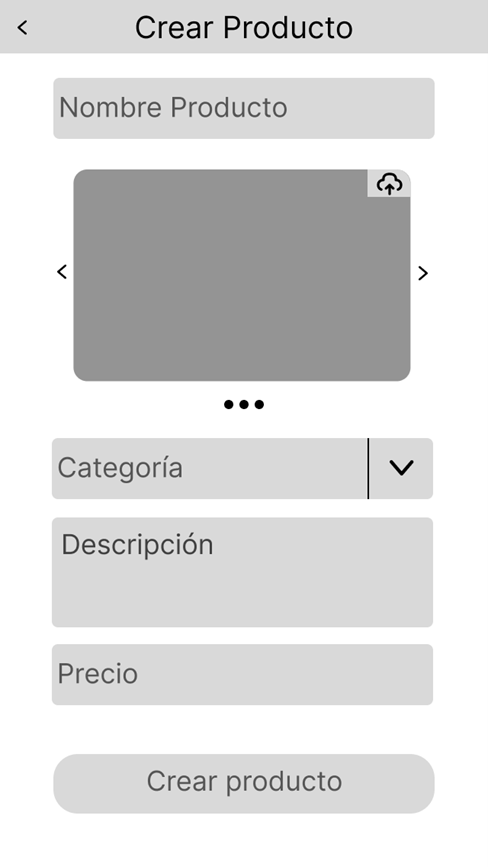
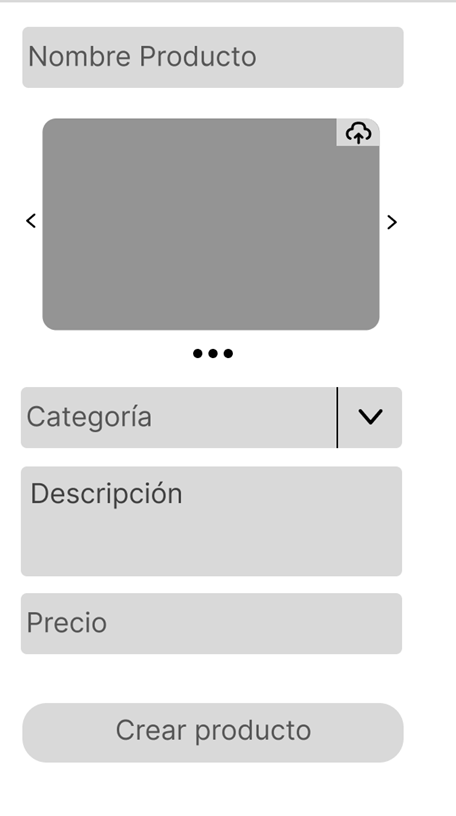
Detalles Tus Productos y Creación vista Crear Producto

diff --git a/dev/tusProductos.html b/dev/tusProductos.html
@@ -17,6 +17,7 @@
     <section id="tusProductos" class="seccion">
         
         <section class="productos">
+
             <div class="producto">
                 <img src="/dev/img/iconos/edit.png" class="editar" alt="editar"></img>
                 <div class="foto-producto center">
@@ -127,62 +128,6 @@
                     <h3 class="titulo">Fresas con crema</h3>
                     <h3 class="titulo">$ 8.000</h3>
                     <h3 class="titulo">Frutas</h3>
-                </div>
-            </div>
-            <div class="producto">
-                <img src="/dev/img/iconos/edit.png" class="editar" alt="editar"></img>
-                <div class="foto-producto center">
-                    <img src="/dev/img/productos/rollo_canela.png" alt="papitas"></img>
-                    <div class="descripcion-producto">
-                        Rollo de canela con arequipe
-                    </div>
-                </div>
-                <div class="informacion-producto">
-                    <h3 class="titulo">Rollo de canela</h3>
-                    <h3 class="titulo">$ 4.000</h3>
-                    <h3 class="titulo">Postres</h3>
-                </div>
-            </div>
-            <div class="producto">
-                <img src="/dev/img/iconos/edit.png" class="editar" alt="editar"></img>
-                <div class="foto-producto center">
-                    <img src="/dev/img/productos/papitas.jpg" alt="papitas"></img>
-                    <div class="descripcion-producto">
-                        Papas de queso, con adición de quesocrema
-                    </div>
-                </div>
-                <div class="informacion-producto">
-                    <h3 class="titulo">Papitas de queso</h3>
-                    <h3 class="titulo">$ 5.000</h3>
-                    <h3 class="titulo">Snacks</h3>
-                </div>
-            </div>
-            <div class="producto">
-                <img src="/dev/img/iconos/edit.png" class="editar" alt="editar"></img>
-                <div class="foto-producto center">
-                    <img src="/dev/img/productos/fresas_crema.png" alt="papitas"></img>
-                    <div class="descripcion-producto">
-                        Fresas con crema y limón chocolate
-                    </div>
-                </div>
-                <div class="informacion-producto">
-                    <h3 class="titulo">Fresas con crema</h3>
-                    <h3 class="titulo">$ 8.000</h3>
-                    <h3 class="titulo">Frutas</h3>
-                </div>
-            </div>
-            <div class="producto">
-                <img src="/dev/img/iconos/edit.png" class="editar" alt="editar"></img>
-                <div class="foto-producto center">
-                    <img src="/dev/img/productos/rollo_canela.png" alt="papitas"></img>
-                    <div class="descripcion-producto">
-                        Rollo de canela con arequipe
-                    </div>
-                </div>
-                <div class="informacion-producto">
-                    <h3 class="titulo">Rollo de canela</h3>
-                    <h3 class="titulo">$ 4.000</h3>
-                    <h3 class="titulo">Postres</h3>
                 </div>
             </div>
         </section>

diff --git a/dev/css/_crearProducto.scss b/dev/css/_crearProducto.scss
@@ -1,0 +1,57 @@
+* {
+    margin: 0;
+}
+
+#crearProducto{
+    background-image: url('/dev/img/crear_producto_figma.png');
+    background-size: cover;
+    justify-content: space-between;
+    align-items: center;
+}
+
+.flecha_atras {
+    position: absolute;
+    left: 10px;
+    cursor: pointer;
+}
+
+.navbar{
+    background-color: rgb(219,219,219);
+    height: 34px;
+    width: 320px;
+    border: 1px solid black;
+    display: flex;
+    justify-content: center;
+    align-items: center;
+}
+
+.form-container {
+    display: flex;
+    flex-direction: column;
+    align-items: center;
+    background-color: rgba(255, 255, 255, 0.5);
+    max-width: 250px;
+    margin: auto;
+    padding: 20px;
+}
+
+input[type="text"] {
+    border-radius: 5px;
+    border: 1px solid #a1a1a1;
+    width: 250px;
+    height: 38px;
+    margin-bottom: 8px;
+    font-size: 15px;
+}
+
+#nombre {
+    
+}
+
+#descripcion {
+
+}
+
+#precio {
+
+}

diff --git a/dev/crearProducto.html b/dev/crearProducto.html
@@ -1,0 +1,25 @@
+<!DOCTYPE html>
+<html lang="en">
+
+<head>
+    <meta charset="UTF-8">
+    <meta name="viewport" content="width=device-width, initial-scale=1.0">
+    <title>Document</title>
+    <link rel="stylesheet" href="./css/main.scss">
+</head>
+
+<body>
+    <nav class="navbar">
+        <img class="flecha_atras" src="/dev/img/iconos/flecha-izquierda.png" alt="Flecha para atras"></img>
+        <h2>Crear Producto</h2>
+    </nav>
+    <section id="crearProducto" class="seccion">
+        <div class="form-container">
+            <input id="nombre" type="text" placeholder="Nombre Producto">
+            <input id="descripcion" type="text" placeholder="Descripción">
+            <input id="precio" type="text" placeholder="Precio">
+        </div>
+    </section>
+</body>
+
+</html>

diff --git a/dev/css/main.scss b/dev/css/main.scss
@@ -1,4 +1,4 @@
-@import 'fuentes', 'inicio','home', 'tusProductos';
+@import 'fuentes', 'inicio','home', 'tusProductos', 'crearProducto';
 
 * {
     margin: 0;
